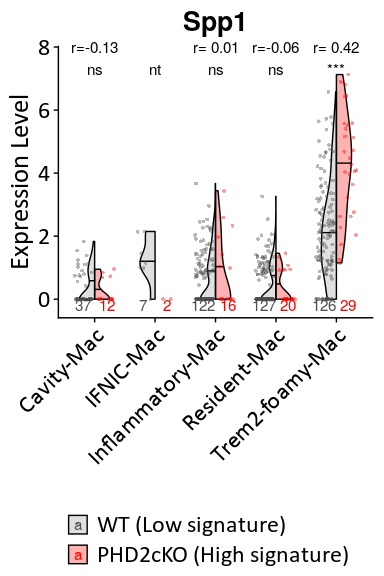
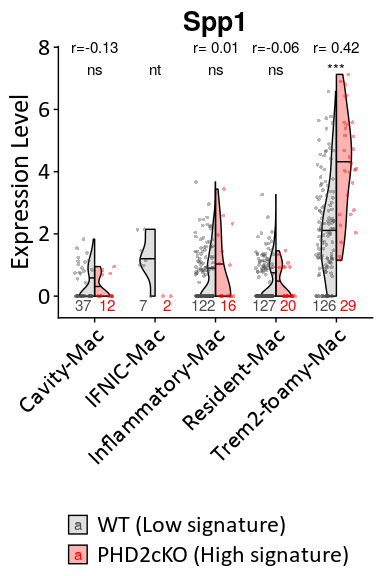
Update w/ fixed typos

diff --git a/Analysis_invivo_singlecell/03_myeloidlineage.md b/Analysis_invivo_singlecell/03_myeloidlineage.md
@@ -12,7 +12,7 @@ ORCID: 0000-0003-0780-6683
 > cross-talk with fibroblasts, which is associated with increased ECM
 > production in atherosclerotic plaques. Moreover, this event could be
 > reduced by depleting Bnip3 in Macrophages (upstream). To investigate
-> this fuerther, we also have profiled bulk in-vitro data of this
+> this further, we also have profiled bulk in-vitro data of this
 > cellular cross-talk and characterized the mechanism. We predicted that
 > Spp1 released by macrophage might be the ligand involved in this
 > interaction with fibroblasts. Here, the data is derived from the
@@ -58,6 +58,13 @@ suppressPackageStartupMessages(require(ComplexHeatmap))
 suppressPackageStartupMessages(require(AUCell))
 suppressPackageStartupMessages(require(rcompanion))
 source("../src/graphics.R")
+```
+
+    ## Loading required package: extrafont
+
+    ## Registering fonts with R
+
+``` r
 source("../src/seurat_fx.R")
 source("../src/wilcox_fx.R")
 ```
@@ -83,7 +90,7 @@ use it for the allocation of cell cycle phases in single cells.
 ``` r
 # Lib of hsa2mmu orthologs
 mmu2hsa <- readRDS("../data/Gene_annotation/hgnc2mgi_hsa2mmu.rds")
-# Cicling genes from human to mouse
+# Cycling genes from human to mouse
 CC.genes <- lapply(cc.genes, function(vect) unlist(sapply(vect, function(z) mmu2hsa[[z]][1])))
 # Allocation
 S <- CellCycleScoring(S, s.features=CC.genes$s.genes, g2m.features=CC.genes$g2m.genes)
@@ -97,7 +104,7 @@ macrophages. So far we have identified the following populations of
 these in our map:
 
 ``` r
-myeloid <- c("Megakaryocyte", "Trombocytes", "Erythrocyte", "Mast cell",
+myeloid <- c("Megakaryocyte", "Thrombocyte", "Erythrocyte", "Mast cell",
          "Basophil", "Neutrophil", "Eosinophil", "Monocyte", "Macrophage")
 grep(paste(myeloid, collapse="|"), levels(S), value=TRUE)
 ```
@@ -238,26 +245,30 @@ M.i <- RunPCA(M.i, npcs = 30, verbose = FALSE)
 M.i <- RunUMAP(M.i, reduction = "pca", dims = 1:15)
 ```
 
-    ## 09:24:22 UMAP embedding parameters a = 0.9922 b = 1.112
+    ## Warning: The default method for RunUMAP has changed from calling Python UMAP via reticulate to the R-native UWOT using the cosine metric
+    ## To use Python UMAP via reticulate, set umap.method to 'umap-learn' and metric to 'correlation'
+    ## This message will be shown once per session
 
-    ## 09:24:22 Read 1119 rows and found 15 numeric columns
+    ## 10:28:11 UMAP embedding parameters a = 0.9922 b = 1.112
 
-    ## 09:24:22 Using Annoy for neighbor search, n_neighbors = 30
+    ## 10:28:11 Read 1119 rows and found 15 numeric columns
 
-    ## 09:24:22 Building Annoy index with metric = cosine, n_trees = 50
+    ## 10:28:11 Using Annoy for neighbor search, n_neighbors = 30
+
+    ## 10:28:11 Building Annoy index with metric = cosine, n_trees = 50
 
     ## 0%   10   20   30   40   50   60   70   80   90   100%
 
     ## [----|----|----|----|----|----|----|----|----|----|
 
     ## **************************************************|
-    ## 09:24:22 Writing NN index file to temp file /tmp/RtmpoOAuAl/file589a56cd8294
-    ## 09:24:22 Searching Annoy index using 1 thread, search_k = 3000
-    ## 09:24:23 Annoy recall = 100%
-    ## 09:24:23 Commencing smooth kNN distance calibration using 1 thread
-    ## 09:24:24 Initializing from normalized Laplacian + noise
-    ## 09:24:24 Commencing optimization for 500 epochs, with 42490 positive edges
-    ## 09:24:27 Optimization finished
+    ## 10:28:11 Writing NN index file to temp file /tmp/Rtmp16jQvl/file3bfd278deff0
+    ## 10:28:11 Searching Annoy index using 1 thread, search_k = 3000
+    ## 10:28:12 Annoy recall = 100%
+    ## 10:28:12 Commencing smooth kNN distance calibration using 1 thread
+    ## 10:28:13 Initializing from normalized Laplacian + noise
+    ## 10:28:13 Commencing optimization for 500 epochs, with 42490 positive edges
+    ## 10:28:16 Optimization finished
 
 It seems that both conditions present all types of myeloid
 leukocytes.

diff --git a/Analysis_invivo_singlecell/04_macrophage.md b/Analysis_invivo_singlecell/04_macrophage.md
@@ -1,4 +1,4 @@
-Role of PHD2 atherogenesis in in-vivo Macrophages
+Role of PHD2 atherogenesis in in-vivo plaque Macrophages
 ================
 Javier Perales-Patón - <javier.perales@bioquant.uni-heidelberg.de> -
 ORCID: 0000-0003-0780-6683
@@ -281,7 +281,6 @@ M$Hypoxia_response <- prog["Hypoxia",]
 rm(common,prog)
 
 # Visualization focused on Macrophages population
- # VlnPlot(S[, Idents(M)=="Macrophage"],features = "Hypoxia_response", group.by = "stim")
 VlnPlot.stim(M[, MacIDs], # Macrophages
      meta.feature = "Hypoxia_response", ylab="Hypoxia response (Score)", 
      fontTXT=fontTXT)
@@ -699,7 +698,7 @@ colnames(RES)[ncol(RES)] <- ""
 
 plotVln(SeuratObject = S1, gene="Spp1", meta=NULL,
     stats=RES,
-    vlnsplit = TRUE, fontTXT,  nCell.y=-0.2, pt.alpha=0.4) +
+    vlnsplit = TRUE, fontTXT,  nCell.y=-0.3, pt.alpha=0.4) +
       guides(fill= guide_legend(nrow=2, byrow=TRUE)) 
 ```
 
@@ -748,7 +747,7 @@ sessionInfo()
     ##  [8] datasets  methods   base     
     ## 
     ## other attached packages:
-    ##  [1] ComplexHeatmap_2.0.0 extrafont_0.17       openxlsx_4.2.3      
+    ##  [1] extrafont_0.17       ComplexHeatmap_2.0.0 openxlsx_4.2.3      
     ##  [4] dplyr_0.8.3          purrr_0.3.2          viper_1.18.1        
     ##  [7] AUCell_1.6.1         ggrepel_0.8.1        ggplot2_3.2.1       
     ## [10] fgsea_1.10.1         Rcpp_1.0.2           genesorteR_0.3.1    
